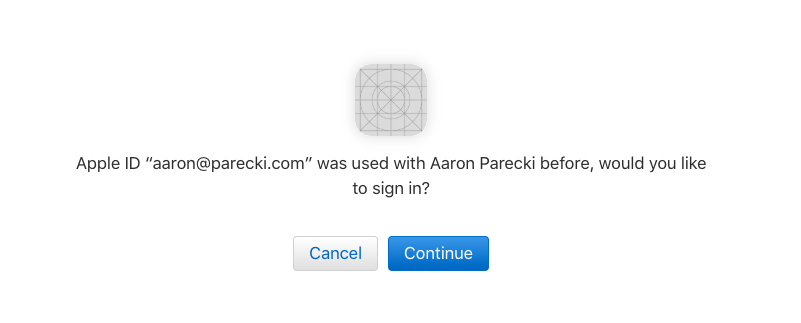
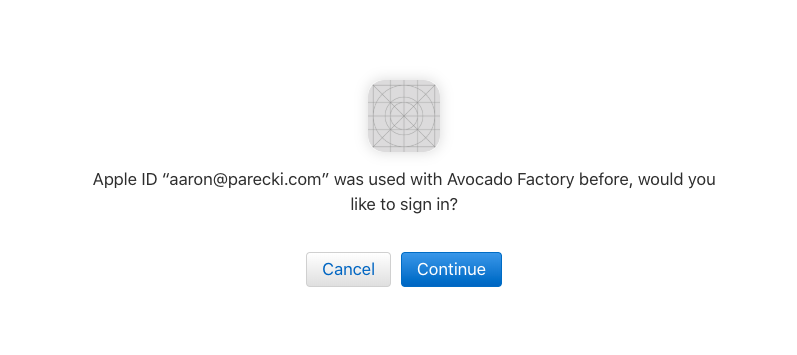
updates to sign-in-with-apple tutorial

diff --git a/_source/_posts/2019-06-04-what-the-heck-is-sign-in-with-apple.md b/_source/_posts/2019-06-04-what-the-heck-is-sign-in-with-apple.md
@@ -39,7 +39,7 @@ And enter the two-factor auth code.
 
 Finally, the user will see a prompt confirming that they want to sign in to this application using their Apple ID.
 
-{% img blog/sign-in-with-apple/6-sign-in-confirmation.png alt:"Dialog asking the user to confirm signing in to this app" width:"800" %}{: .center-image }
+{% img blog/sign-in-with-apple/apple-permission-prompt.png alt:"Dialog asking the user to confirm signing in to this app" width:"800" %}{: .center-image }
 
 Clicking "Continue" will take the user back to the app where they will be signed in!
 
@@ -127,6 +127,10 @@ Apple will generate a new private key for you and let you download it only once.
 
 {% img blog/sign-in-with-apple/18-download-your-key.png alt:"Download your key" width:"800" %}{: .center-image }
 
+Lastly, go back and view the key information to find your Key ID which you'll need in the next step.
+
+{% img blog/sign-in-with-apple/find-your-key-id.png alt:"Find your key ID" width:"800" %}{: .center-image }
+
 Alright, that was a lot, but we are now ready to start writing some code! If you ran into any trouble, try checking out [Apple's documentation](https://developer.apple.com/sign-in-with-apple/get-started/) in case anything has changed since the publication of this blog post.
 
 ## Generate the Client Secret
@@ -141,7 +145,7 @@ First, make sure you've got Ruby installed, and then install the JWT gem by runn
 gem install jwt
 ```
 
-Now the `jwt` gem should be available for use. Fill in the missing values at the top of this file, and save it as `client_secret.rb`. You should already have the `client_id` value from the previous step. You'll also need your Apple Team ID. This is displayed in a few places, but the most convenient is in the top right corner of the screen.
+Now the `jwt` gem should be available for use. Fill in the missing values at the top of this file, and save it as `client_secret.rb`. You should already have the `client_id` value from the previous step. You'll also need your Apple Team ID. This is displayed in a few places, but the most convenient is in the top right corner of the screen. Use the Key ID you found in the previous step.
 
 {% img blog/sign-in-with-apple/19-find-team-id.png alt:"Find your team ID in the top right corner" width:"300" %}{: .center-image }
 
@@ -153,8 +157,13 @@ require 'jwt'
 key_file = 'key.txt'
 team_id = ''
 client_id = ''
+key_id = ''
 
 ecdsa_key = OpenSSL::PKey::EC.new IO.read key_file
+
+headers => {
+  'kid' => key_id
+}
 
 claims = {
 	'iss' => team_id,
@@ -164,7 +173,7 @@ claims = {
 	'sub' => client_id,
 }
 
-token = JWT.encode claims, ecdsa_key, 'ES256'
+token = JWT.encode claims, ecdsa_key, 'ES256', headers
 
 puts token
 ```
@@ -175,10 +184,8 @@ Now you can run this from the command line and it will output a JWT.
 
 ```bash
 ruby client_secret.rb
-eyJhbGciOiJFUzI1NiJ9.eyJpc3MiOiI3TUM2VVpSMlVWIiwiaWF0IjoxNTU5NjE0MjU2LCJleHAiOjE1NzUxNjYyNTYsImF1ZCI6Imh0dHBzOi8vYXBwbGVpZC5hcHBsZS5jb20iLCJzdWIiOiJsb2wuYXZvY2Fkby5jbGllbnQifQ.t6wIFrSKwuCZsJ9I1TWWBCdxmUMG3g0kNyNnxhkpG3oZAKY2UdXqL5CyRGTa21OYHa6ir1JFWkdBDjTNvt8hYC
+eyJraWQiOiJGUVVBN0RYUkJGIiwiYWxnIjoiRVMyNTYifQ.eyJpc3MiOiI3TUM2VVpSMlVWIiwiaWF0IjoxNTU5NjE0MjU2LCJleHAiOjE1NzUxNjYyNTYsImF1ZCI6Imh0dHBzOi8vYXBwbGVpZC5hcHBsZS5jb20iLCJzdWIiOiJsb2wuYXZvY2Fkby5jbGllbnQifQ.t6wIFrSKwuCZsJ9I1TWWBCdxmUMG3g0kNyNnxhkpG3oZAKY2UdXqL5CyRGTa21OYHa6ir1JFWkdBDjTNvt8hYC
 ```
-
-Note: Apple says that the `kid` property is required in the header, but in my testing I didn't find that to be the case. It seemed to work fine without it.
 
 This is described in Apple's documentation [Generate and validate tokens](https://developer.apple.com/documentation/signinwithapplerestapi/generate_and_validate_tokens).
 
@@ -211,7 +218,7 @@ $authorize_url = 'https://appleid.apple.com/auth/authorize'.'?'.http_build_query
   'client_id' => $client_id,
   'redirect_uri' => $redirect_uri,
   'state' => $_SESSION['state'],
-  'scope' => 'openid email', // This doesn't seem to be required
+  'scope' => 'name email',
 ]);
 ```
 
@@ -343,7 +350,11 @@ It does seem to prompt for two-factor auth every time you log in to an app, whic
 
 Once you confirm that, you'll see a screen asking if you would like to continue signing in to the app.
 
-{% img blog/sign-in-with-apple/6-sign-in-confirmation.png alt:"Prompt: Would you like to sign in?" width:"800" %}{: .center-image }
+{% img blog/sign-in-with-apple/apple-permission-prompt.png alt:"Prompt: Would you like to sign in?" width:"800" %}{: .center-image }
+
+Note: You will only see this permissions screen the very first time you log in with this App ID. In subsequent logins, you'll see a confirmation prompt like the below.
+
+{% img blog/sign-in-with-apple/6-sign-in-confirmation.png alt:"Dialog asking the user to confirm signing in to this app" width:"800" %}{: .center-image }
 
 Now click **Continue** and you'll be redirected to your redirect URL! If you entered the placeholder `https://example-app.com/redirect` URL then you'll see a message like this.
 
@@ -362,6 +373,10 @@ The only piece of useful data in the claims really is the `sub` value. This is t
 I haven't yet been able to find how or where to get the user's special proxy email address from Apple, but I will update this post when I do! It isn't returned in the ID token even when requesting the `openid email` scopes, and there is no `userinfo` endpoint documented, and the few variations I tried didn't work. I'm hoping Apple updates their documentation soon so we can try that part out!
 
 You can find the [complete code from this tutorial](https://github.com/aaronpk/sign-in-with-apple-example) on GitHub!
+
+### Changelog
+
+* June 7, 2019: Updates to the sample code based on some new implementation experience. Added screenshot of the permissions screen asking to hide the email address.
 
 ## Learn More about OAuth 2.0 and OpenID Connect
 
